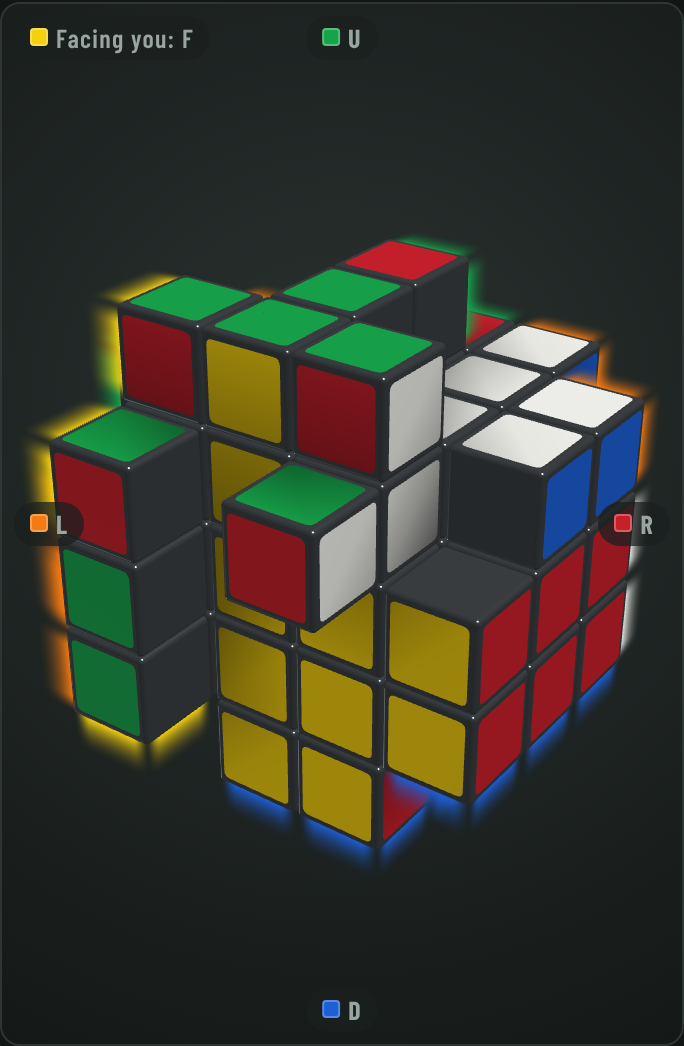
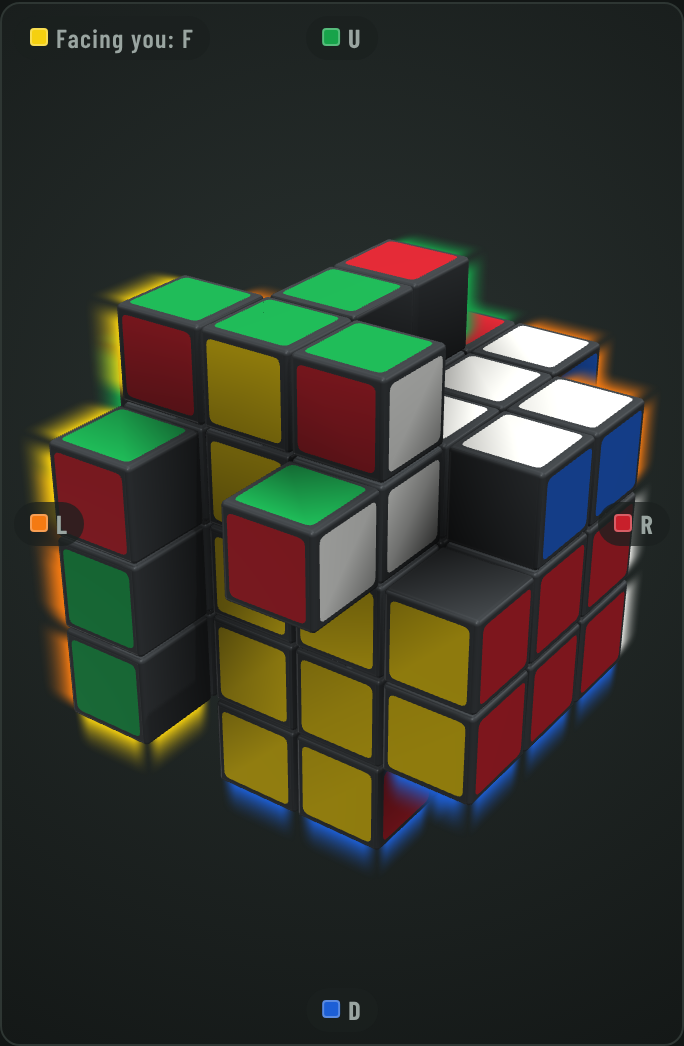
Lab: wider, softer corner shading
Adds a second ring of grid spots (two cells out, lower weight) so large
notches shade deeper, and smoothstep easing of the blend across each face
so shading meets cleanly at face edges. One shared corner formula serves
rest and mid-turn shading (still identical at rest). Live shading memoizes
spot values per frame (about 2.2 ms per frame here).

Claude-Session: https://claude.ai/code/session_014X2fLm38YdyUGi1thnkTt4

diff --git a/src/web/main.ts b/src/web/main.ts
@@ -316,6 +316,35 @@ function shadeCubelet(st: State, slot: number, ori: number, id: number) {
   applyToCubelet(id, per);
 }
 
+// Second ring: grid spots two cells out along the face, with less weight, so big
+// notches get deeper shading than small steps. (in-plane offsets along ux, uy; weight)
+const FAR_RING: [number, number, number][] = [
+  [2, 0, 1],
+  [0, 2, 1],
+  [2, 1, 0.75],
+  [1, 2, 0.75],
+  [2, 2, 0.5],
+];
+const FAR_RING_TOTAL = FAR_RING.reduce((t, r) => t + r[2], 0);
+const FAR_WEIGHT = 0.22; // how much a fully filled second ring darkens a corner
+
+/**
+ * Brightness of one face corner. `fill(x, y, z)` says how filled a spot is (0..1);
+ * f = the spot just in front of the face; ux, uy = the face's in-plane axes;
+ * sx, sy = which corner. Used both at rest (filled = 0 or 1) and mid-turn (continuous).
+ */
+function cornerValue(fill: (x: number, y: number, z: number) => number, f: readonly number[], ux: readonly number[], uy: readonly number[], sx: number, sy: number) {
+  const at = (i: number, j: number) => fill(f[0] + i * sx * ux[0] + j * sy * uy[0], f[1] + i * sx * ux[1] + j * sy * uy[1], f[2] + i * sx * ux[2] + j * sy * uy[2]);
+  const s1 = at(1, 0), s2 = at(0, 1), s3 = at(1, 1);
+  const near = levelBrightness((1 - s1 * s2) * (3 - (s1 + s2 + s3)));
+  let far = 0;
+  for (const [i, j, w] of FAR_RING) far += w * at(i, j);
+  return near * (1 - (FAR_WEIGHT * far) / FAR_RING_TOTAL);
+}
+
+/** Smoothstep easing of the blend across a face, so shading meets cleanly at face edges. */
+const ease = (t: number) => t * t * (3 - 2 * t);
+
 /** Four corner values for face d of the cubelet in `slot` (grid rule). */
 function gridCorners(st: State, slot: number, ori: number, d: number): number[] {
   const R = ROTATIONS[ori];
@@ -323,19 +352,9 @@ function gridCorners(st: State, slot: number, ori: number, d: number): number[] 
   const n = matVec(R, DIRS[d]);
   const ux = matVec(R, FACE_AXES[d].ux);
   const uy = matVec(R, FACE_AXES[d].uy);
-  const front: Vec3 = [p[0] + n[0], p[1] + n[1], p[2] + n[2]];
-  const corner = [1, 1, 1, 1];
-  for (let k = 0; k < 4; k++) {
-    const [sx, sy] = CORNER_SIGNS[k];
-    const a: Vec3 = [front[0] + sx * ux[0], front[1] + sx * ux[1], front[2] + sx * ux[2]];
-    const b: Vec3 = [front[0] + sy * uy[0], front[1] + sy * uy[1], front[2] + sy * uy[2]];
-    const c: Vec3 = [a[0] + sy * uy[0], a[1] + sy * uy[1], a[2] + sy * uy[2]];
-    const s1 = filledAt(st, a) ? 1 : 0;
-    const s2 = filledAt(st, b) ? 1 : 0;
-    const level = s1 && s2 ? 0 : 3 - (s1 + s2 + (filledAt(st, c) ? 1 : 0));
-    corner[k] = AO_LEVELS[level];
-  }
-  return corner;
+  const front = [p[0] + n[0], p[1] + n[1], p[2] + n[2]];
+  const fill = (x: number, y: number, z: number) => (filledAt(st, [x, y, z]) ? 1 : 0);
+  return CORNER_SIGNS.map(([sx, sy]) => cornerValue(fill, front, ux, uy, sx, sy));
 }
 
 /**
@@ -363,7 +382,7 @@ function applyToCubelet(id: number, per: (number[] | null)[]) {
   for (let i = 0; i < b.face.length; i++) {
     const c = per[b.face[i]];
     if (!c) continue;
-    const u = b.u[i], w = b.v[i];
+    const u = ease(b.u[i]), w = ease(b.v[i]);
     const top = c[0] * (1 - u) + c[1] * u;
     const bottom = c[2] * (1 - u) + c[3] * u;
     arr[i * 3] = arr[i * 3 + 1] = arr[i * 3 + 2] = bottom * (1 - w) + top * w;
@@ -519,8 +538,8 @@ function applyCorners(f: AoFace, corner: number[]) {
   const arr = col.array as Float32Array;
   const pos = f.mesh.geometry.attributes.position;
   for (let i = 0; i < pos.count; i++) {
-    const u = Math.max(0, Math.min(1, pos.getX(i) / f.extent + 0.5)); // 0 at -x, 1 at +x
-    const w = Math.max(0, Math.min(1, pos.getY(i) / f.extent + 0.5)); // 0 at -y, 1 at +y
+    const u = ease(Math.max(0, Math.min(1, pos.getX(i) / f.extent + 0.5))); // 0 at -x, 1 at +x
+    const w = ease(Math.max(0, Math.min(1, pos.getY(i) / f.extent + 0.5))); // 0 at -y, 1 at +y
     const top = corner[0] * (1 - u) + corner[1] * u;
     const bottom = corner[2] * (1 - u) + corner[3] * u;
     const v = bottom * (1 - w) + top * w;
@@ -609,7 +628,17 @@ function shadeDuringTurn(pose: TurnPose) {
     const slot = slotAtXYZ(x, y, z);
     return slot >= 0 && st.occ[slot] >= 0 && !isMovingId[st.occ[slot]];
   };
+  // Neighboring faces check many of the same spots: remember each spot's value this frame.
+  const memo = new Map<number, number>();
   const filled = (qx: number, qy: number, qz: number) => {
+    const key = ((Math.round(qx * 64) + 512) * 1024 + (Math.round(qy * 64) + 512)) * 1024 + (Math.round(qz * 64) + 512);
+    const hit = memo.get(key);
+    if (hit !== undefined) return hit;
+    const v = filledUncached(qx, qy, qz);
+    memo.set(key, v);
+    return v;
+  };
+  const filledUncached = (qx: number, qy: number, qz: number) => {
     let best = 0;
     const x0 = Math.floor(qx + 1e-9), y0 = Math.floor(qy + 1e-9), z0 = Math.floor(qz + 1e-9);
     const x1 = Math.abs(qx - Math.round(qx)) < 1e-6 ? x0 : x0 + 1;
@@ -658,16 +687,8 @@ function shadeDuringTurn(pose: TurnPose) {
         per.push(null);
         continue;
       }
-      const corner = [1, 1, 1, 1];
-      for (let k = 0; k < 4; k++) {
-        const sx = CORNER_SIGNS[k][0], sy = CORNER_SIGNS[k][1];
-        const ax = fx + sx * ux[0], ay = fy + sx * ux[1], az = fz + sx * ux[2];
-        const s1 = filled(ax, ay, az);
-        const s2 = filled(fx + sy * uy[0], fy + sy * uy[1], fz + sy * uy[2]);
-        const s3 = filled(ax + sy * uy[0], ay + sy * uy[1], az + sy * uy[2]);
-        corner[k] = levelBrightness((1 - s1 * s2) * (3 - (s1 + s2 + s3)));
-      }
-      per.push(corner);
+      const f = [fx, fy, fz];
+      per.push(CORNER_SIGNS.map(([sx, sy]) => cornerValue(filled, f, ux, uy, sx, sy)));
     }
     applyToCubelet(id, per);
   }
